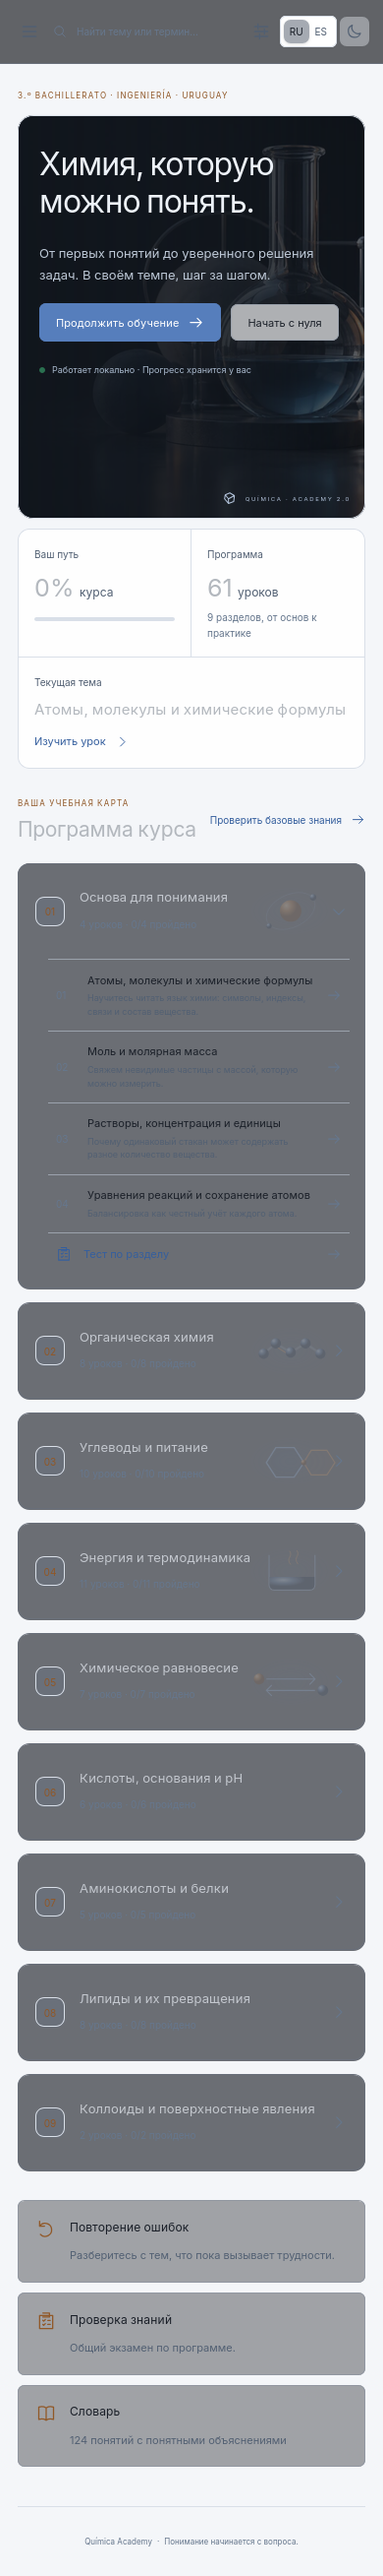
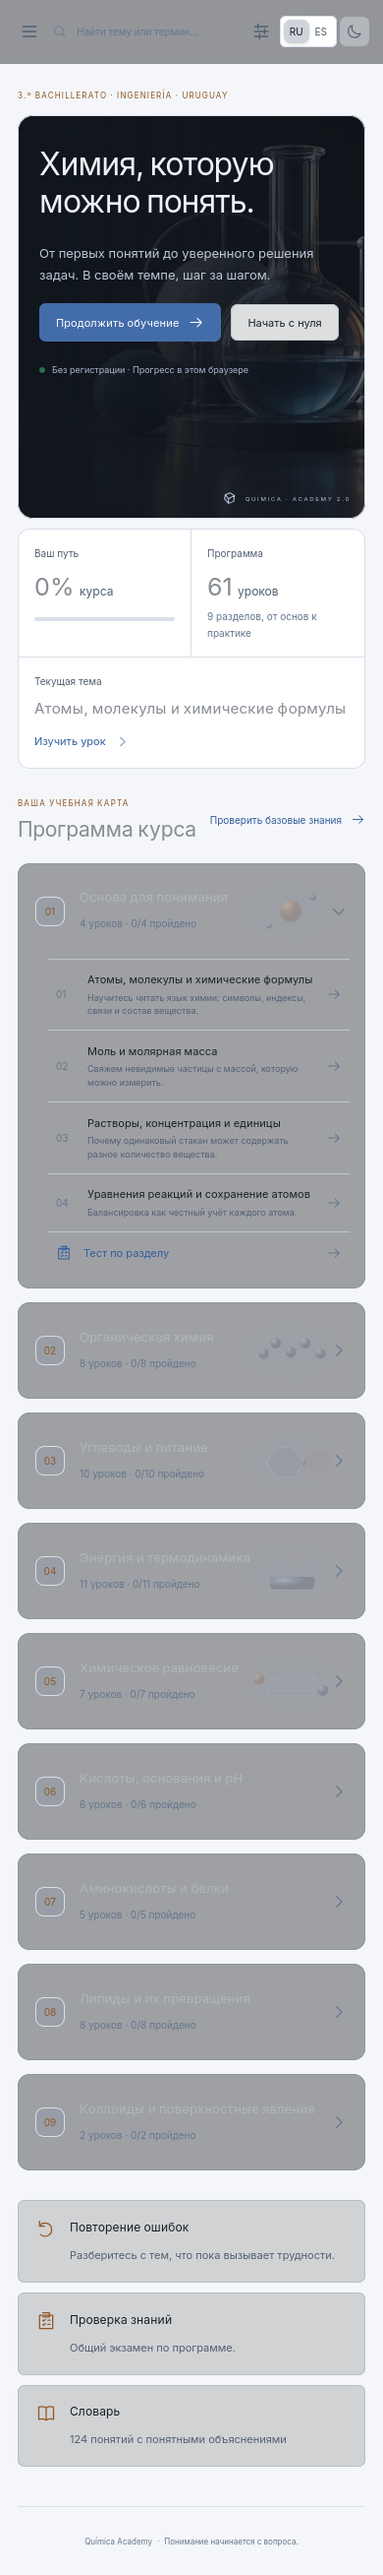
Record verified GitHub Pages publication and browser checks

diff --git a/reports/GITHUB_PAGES.md b/reports/GITHUB_PAGES.md
@@ -1,0 +1,36 @@
+# Química Academy — публикация на GitHub Pages
+
+Дата: 16 октября 2026 года.
+
+Сайт: [https://dixlofos228.github.io/QuimicaAcademy/](https://dixlofos228.github.io/QuimicaAcademy/)
+
+Репозиторий: [Dixlofos228/QuimicaAcademy](https://github.com/Dixlofos228/QuimicaAcademy). Сайт и исходный код публичные. Компьютер владельца не требуется для работы сайта.
+
+## Развёртывание
+
+Подготовлена относительная база Vite и единый обработчик адресов изображений, обложек, иллюстраций завершения и скачивания реестра. Hash-навигация открывает прямые ссылки на уроки без серверных правил перенаправления. Локальный запуск по прежнему адресу сохранён. Надписи RU/ES поясняют, что прогресс хранится в текущем браузере.
+
+GitHub Actions собирает сайт из main, выполняет npm ci, 51 тест расчётов и данных, TypeScript и production build; затем публикует Pages с минимальными правами задачи развёртывания. Actions закреплены на точных SHA. Изменения учебного кода, ресурсов, зависимостей, тестов и конфигурации вызывают новую публикацию; документация и скриншоты её не запускают. Поддержан ручной запуск workflow.
+
+[Последняя проверенная публикация](https://github.com/Dixlofos228/QuimicaAcademy/actions/runs/38859010219) завершилась успешно. HTTPS обязателен. Адрес сайта отвечает HTTP 200.
+
+## Фотографии
+
+241 фотография для просмотра включена в сайт. Полные оригиналы находятся в [GitHub Release course-originals](https://github.com/Dixlofos228/QuimicaAcademy/releases/tag/course-originals) и открываются соответствующей кнопкой в просмотрщике. Размер сайта — около 118,3 MB; полные оригиналы — 945 651 719 байт вне Pages. Локальные оригиналы не изменены.
+
+Сверены размеры и SHA-256 всех 241 загруженных оригиналов по метаданным GitHub. В релизе опубликован originals-manifest.json. Дополнительно 001.jpg и 241.jpg скачаны без авторизации: HTTP 200, содержимое и SHA-256 совпадают с исходными файлами.
+
+## Проверка
+
+- Локальная production-сборка и TypeScript: успешно.
+- Расчётные тесты: 51/51.
+- Повторный полный браузерный прогон: 98/98, Chromium и Firefox, около 4,2 минуты.
+- Версия в подпапке /QuimicaAcademy/: Chromium и Firefox, без ошибок в проверенных сценариях.
+- Публичный HTTPS-сайт: проверены главная, молекулы, реакции, калориметр, моль, словарь, прогресс, диагностика и просмотр фотографий.
+- Мобильная ширина 390 px, RU/ES: без горизонтального переполнения; сняты скриншоты в обоих браузерах. Проверялся браузерный viewport, физический телефон отдельно не использовался.
+- Все 256 статических публичных ресурсов, включая 241 фотографию, отвечают HTTP 200.
+- Тестовый Firefox использует отдельный временный профиль с прямым подключением; пользовательские настройки Firefox и системного прокси не изменены.
+
+## Прогресс между устройствами
+
+Прогресс не публикуется и не синхронизируется через GitHub. Он хранится отдельно для каждого браузера и адреса сайта. Данные localhost автоматически не переносятся на HTTPS. Для переноса нужно открыть «Мой прогресс», экспортировать JSON, затем импортировать этот файл в нужном браузере. Курс работает без регистрации.
